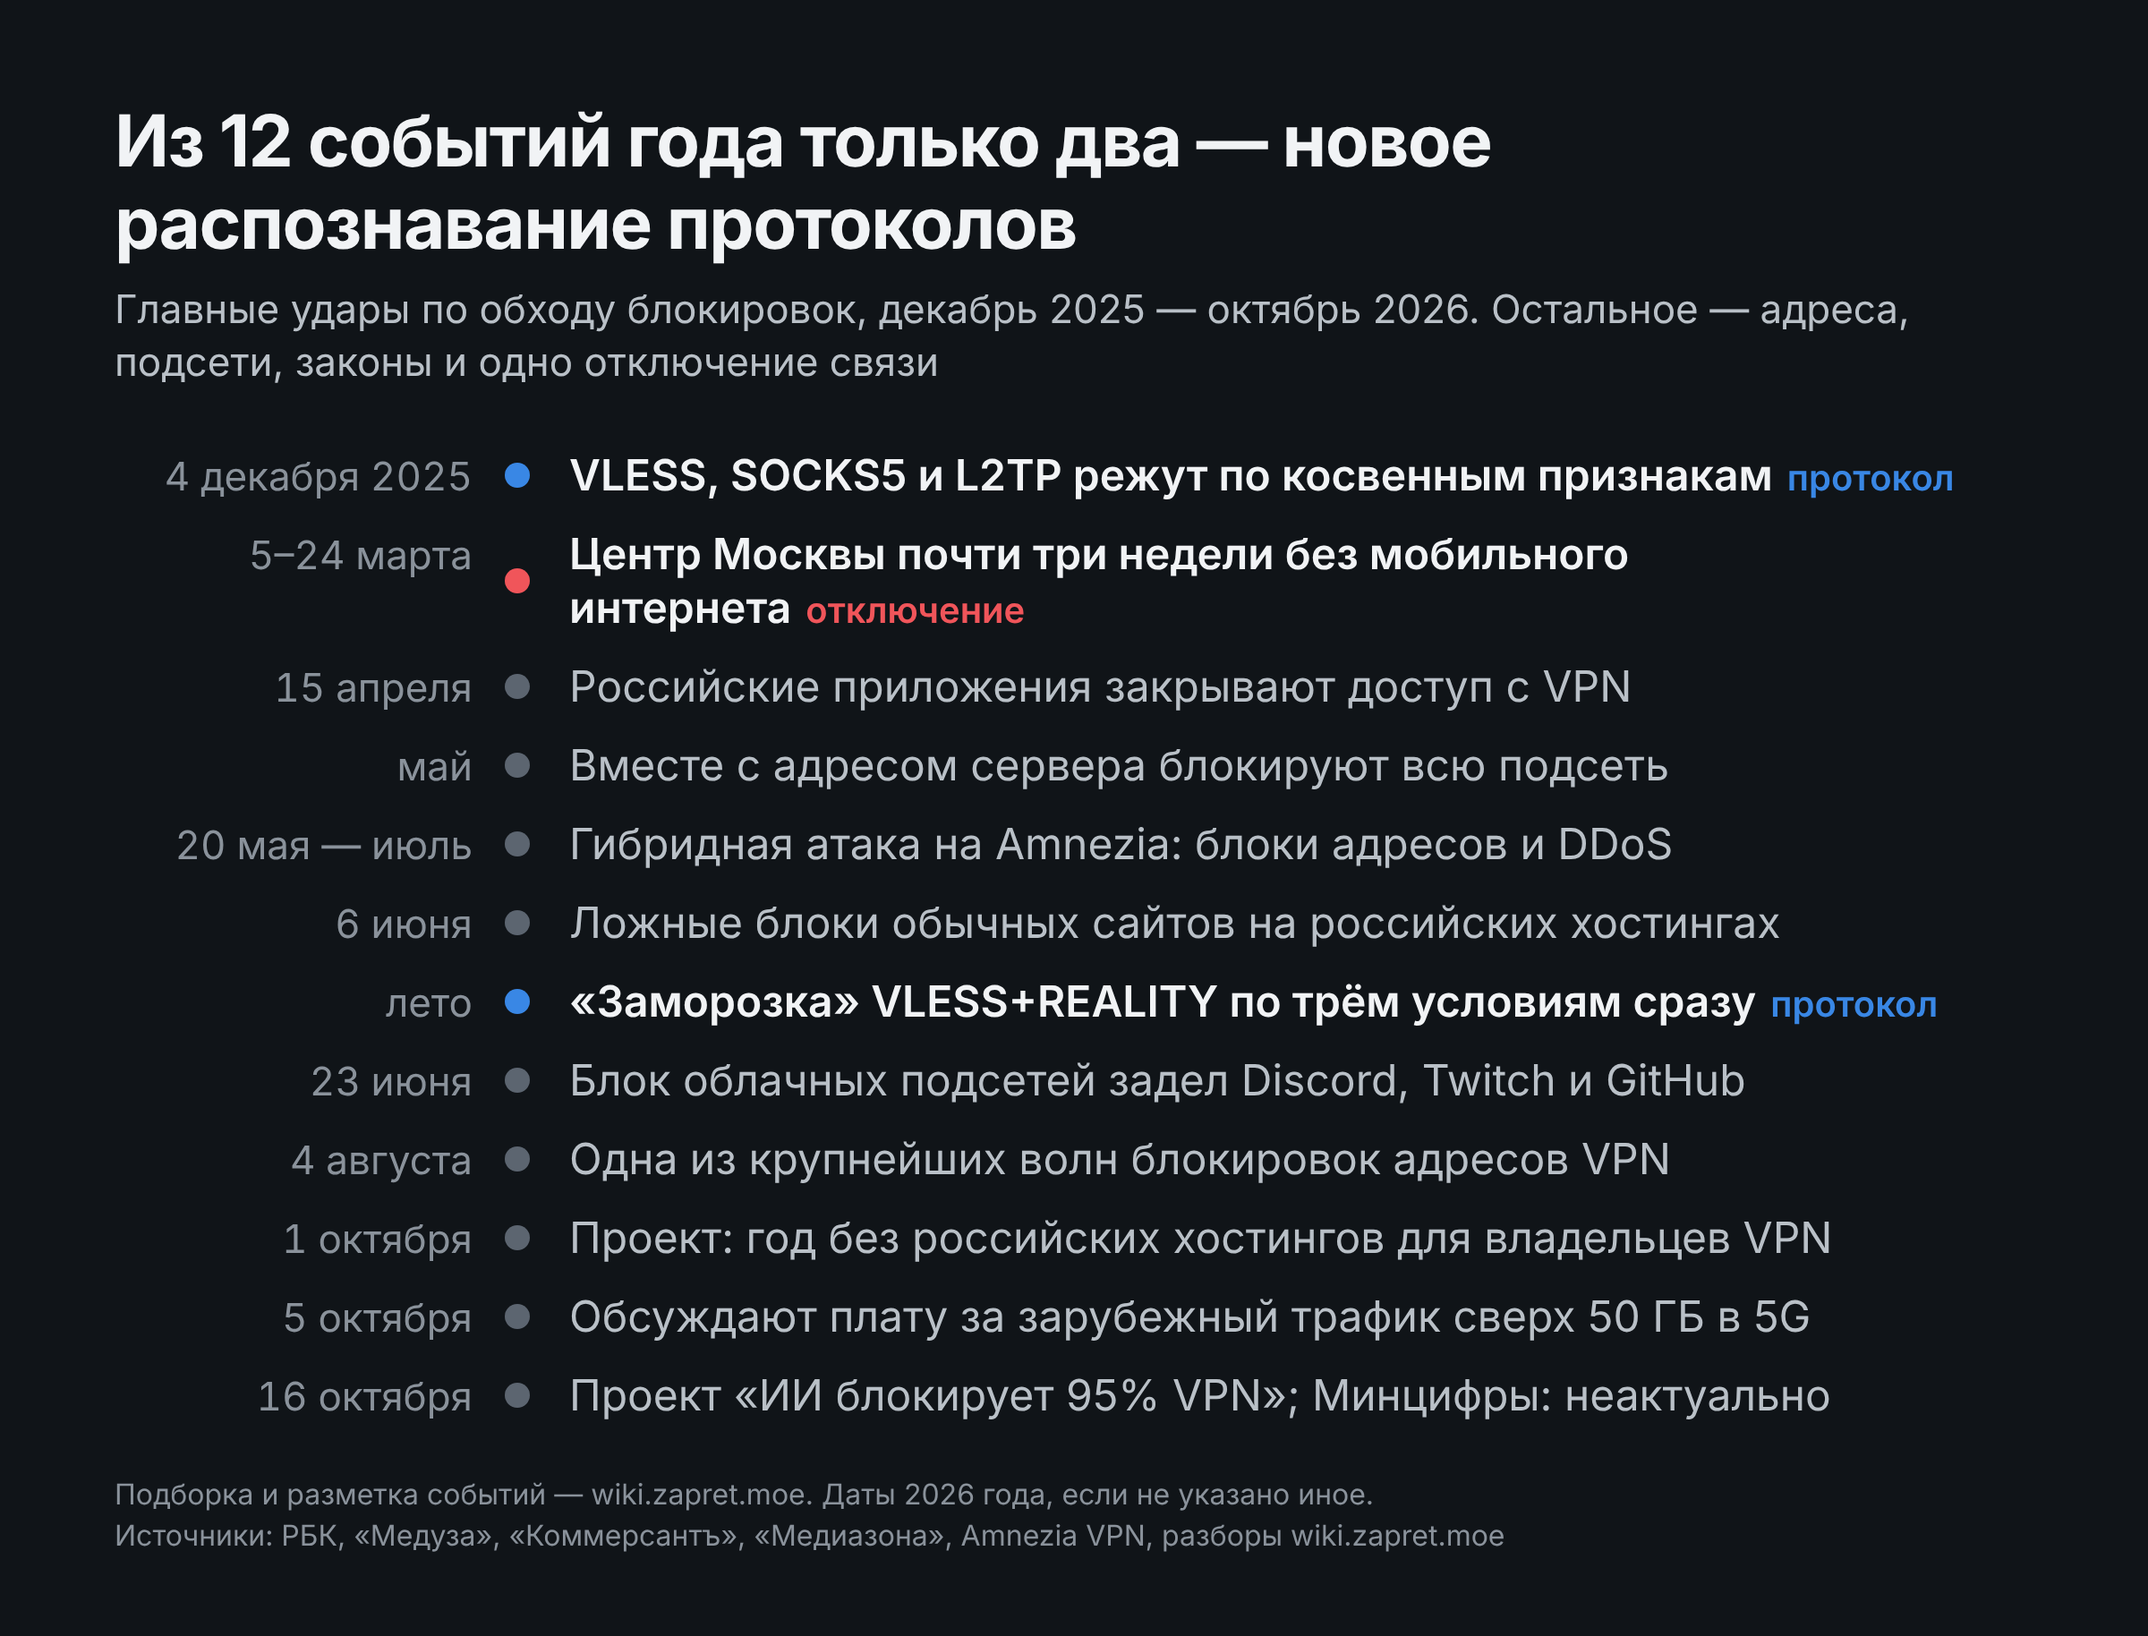
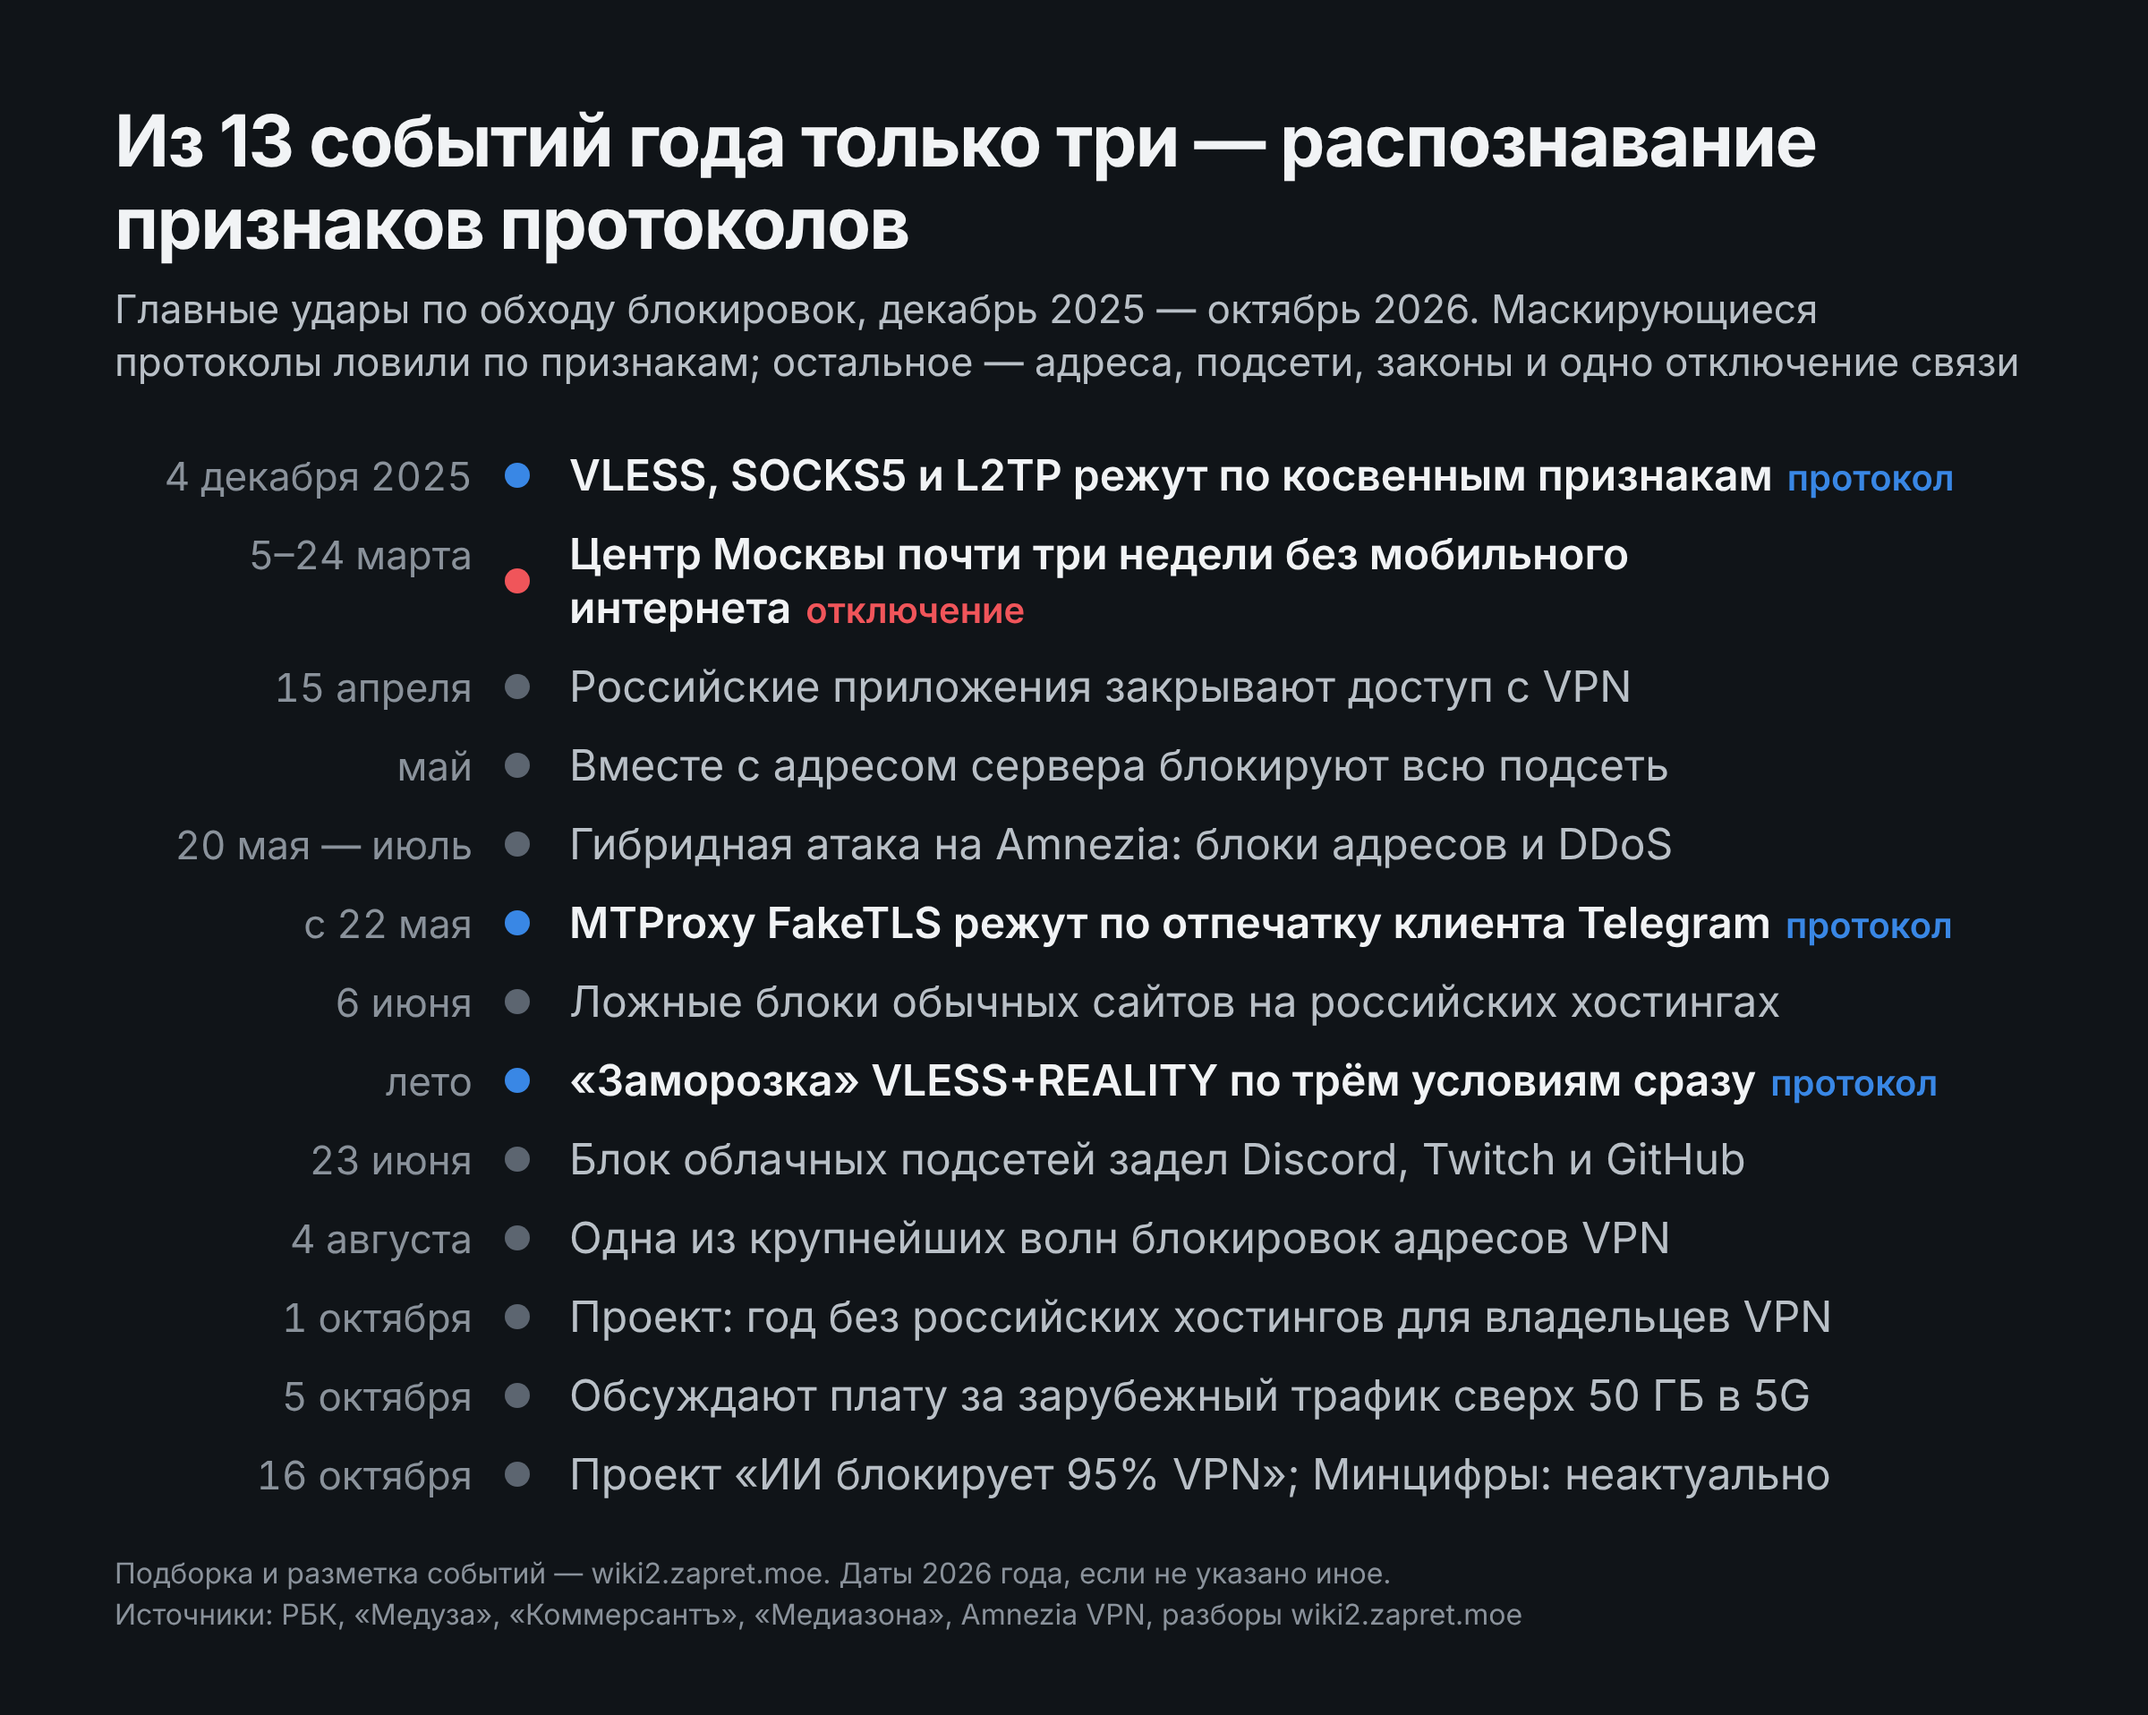
РКН-тян: MTProxy убит не как протокол, а по отпечатку клиента
В статью добавлен раздел о MTProxy: с 22 мая 2026 ee/FakeTLS режут по трём условиям (отпечаток клиента Telegram, один SNI, залп подключений на ip:port), сам протокол и релеи исправны, обход — сломать любое условие. Записан общий вывод: понял, что режут, — понял, как обойти. В заметку о детекции MTProto добавлено октябрьское обновление статуса: приватный FakeTLS по-прежнему работает. Диаграммы перерисованы: домен wiki2 в подписях, в хронику добавлено событие с MTProxy.

Changed region(s): [[0.0312, 0.0624, 0.9375, 0.8731], [0.0625, 0.9043, 0.7188, 0.9666]]

diff --git a/Zapret/mtproto/05-censorship.md b/Zapret/mtproto/05-censorship.md
@@ -55,6 +55,11 @@ SNI говорит "iCloud", а IP принадлежит Hetzner → анома
 | **MTProto FakeTLS (приватный, telemt/mtg)** | **Работает** при правильной настройке |
 | SSH-туннели | Работают |
 
+> [!note] Обновление, октябрь 2026: приватный FakeTLS по-прежнему работает
+> С 22 мая 2026 года (по [issue #30733 Telegram Desktop](https://github.com/telegramdesktop/tdesktop/issues/30733) — сначала в Сибири) `ee`-прокси массово перестали подключаться, но протокол не убит. По наблюдениям сообщества, фильтр рвёт соединение, только когда сходятся три условия: узнаваемый отпечаток ClientHello официального клиента Telegram, один и тот же SNI и несколько рукопожатий одновременно на один ip:port — разбор в [[mtproxy/ja4-sni-client-side|заметке о JA4 и SNI на стороне клиента]]. [[mtproxy/faketls-relay-diagnosis|Диагностика релеев]] показала, что к одному исправному прокси сеть отбрасывает два профиля ClientHello из шести, а четыре проходят всегда.
+>
+> Поэтому строка «Работает» для приватного FakeTLS остаётся в силе — при условии, что клиент шлёт не узнаваемый отпечаток, а SNI или подключения разнесены. Как это вписывается в общую картину блокировок 2026 года (режут признаки, а не протоколы), разобрано в статье [[DPI/rkn-tan-ne-strashnaya-oktyabr-2026|«РКН-тян не такая страшная, как кажется»]].
+
 ## Почему MTProxy до сих пор работает?
 
 MTProto FakeTLS **замедляется, но НЕ блокируется полностью**:
